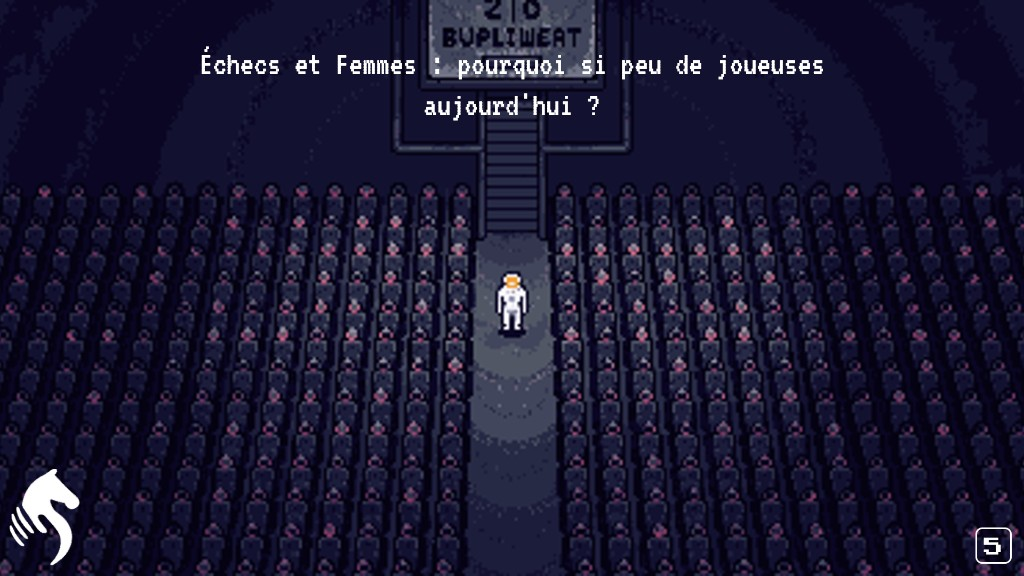
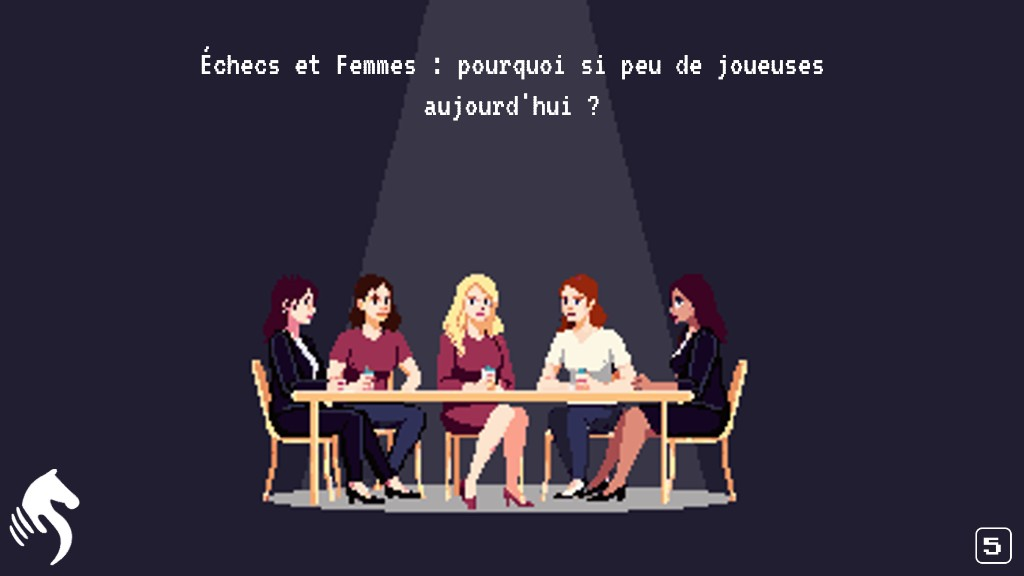
Images hero : femmes, autisme, prison ; ogImage et alt

diff --git a/src/content/blog/echecs-en-prison.md b/src/content/blog/echecs-en-prison.md
@@ -14,6 +14,12 @@ titleEn: "Chess in Prison: When the Chessboard Becomes a Rehabilitation Tool"
 excerptEn: "Inmates learning to anticipate three moves ahead, manage the frustration of a lost piece, respect an opponent. What chess therapy programmes in prison really reveal about rehabilitation."
 seoTitleEn: "Chess in Prison: Rehabilitation, Executive Functions and Recidivism"
 seoDescriptionEn: "Change Through Chess, San Quentin, Rikers Island: prison chess programmes show measurable effects on impulsivity and recidivism. What criminology really says about the chessboard as a rehabilitation tool."
+ogImage: "/images/blog/echecs-en-prison-hero.png"
+heroImage:
+  src: "/images/blog/echecs-en-prison-hero.png"
+  alt: "Illustration pixel art : cellule aux murs de pierre sombres, lumière à barreaux dessinant un damier au sol, roi noir au centre, porte ouverte sur un couloir éclairé ; titre « Les échecs en prison : quand l'échiquier devient un outil de réhabilitation » en surimpression."
+  credit: "Blog d'un Gaucher"
+  license: "Création originale"
 ---
 
 Il est 14h dans un établissement pénitentiaire de la périphérie de Londres. La salle est petite, le mobilier cabossé. Deux détenus sont assis face à un échiquier posé sur une table en formica. Il n'y a pas de surveillance rapprochée : le gardien est dans le couloir.

diff --git a/src/content/blog/echecs-et-autisme.md b/src/content/blog/echecs-et-autisme.md
@@ -14,6 +14,12 @@ titleEn: "Chess and Autism: Why the Chessboard Becomes a Refuge"
 excerptEn: "For a brain that struggles with social ambiguity, the chessboard is one of the few spaces where rules truly hold. What research actually says about autism and chess, without romanticism or oversimplification."
 seoTitleEn: "Chess and Autism: Benefits for the Autism Spectrum"
 seoDescriptionEn: "Discover how chess helps people with ASD. Explore the cognitive and social benefits of this strategic game for autistic minds, backed by research."
+ogImage: "/images/blog/echecs-et-autisme-hero.png"
+heroImage:
+  src: "/images/blog/echecs-et-autisme-hero.png"
+  alt: "Illustration pixel art : silhouette au bord d’un chemin, ciel aux nuages pastel et sphère colorée ; titre « Échecs et autisme : pourquoi l'échiquier devient un refuge » en surimpression."
+  credit: "Blog d'un Gaucher"
+  license: "Création originale"
 ---
 
 Imagine une cour de récréation un jeudi matin. Le bruit est assourdissant : des chaises qui raclent, des éclats de voix imprévisibles, des lumières fluorescentes qui grésillent légèrement au-dessus des têtes. Pour la plupart d'entre nous, ce n'est qu'un léger fond sonore. Mais pour Théo, 9 ans, diagnostiqué [trouble du spectre de l'autisme](https://fr.wikipedia.org/wiki/Trouble_du_spectre_de_l%27autisme) (TSA) de niveau 2, ce flot d'informations sensorielles non filtrées se transforme chaque matin en une tempête intérieure paralysante. Les codes sociaux volent dans tous les sens, implicites, indéchiffrables. Il faut savoir lire entre les lignes d'une conversation, interpréter un rictus, comprendre le second degré d'une plaisanterie. C'est épuisant à un niveau que peu de personnes neurotypiques peuvent imaginer.

diff --git a/src/content/blog/echecs-et-femmes.md b/src/content/blog/echecs-et-femmes.md
@@ -17,7 +17,7 @@ seoDescriptionEn: "Why are there so few women in chess? A breakdown of scientifi
 ogImage: "/images/blog/echecs-et-femmes-hero.png"
 heroImage:
   src: "/images/blog/echecs-et-femmes-hero.png"
-  alt: "Illustration pixel art : silhouette en combinaison blanche au centre d’une foule dans une salle sombre, titre « Échecs et Femmes » en surimpression."
+  alt: "Illustration pixel art : cinq femmes assises à une longue table sous un projecteur, fond sombre ; titre « Échecs et Femmes : pourquoi si peu de joueuses aujourd'hui ? » en surimpression."
   credit: "Blog d'un Gaucher"
   license: "Création originale"
 faq: